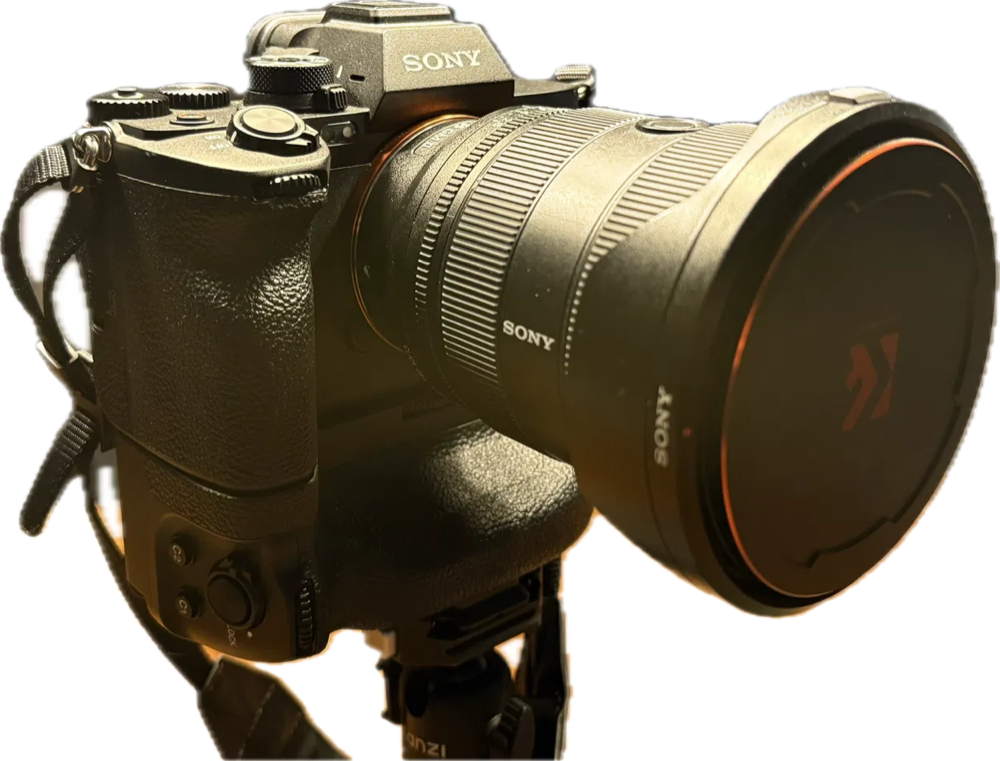
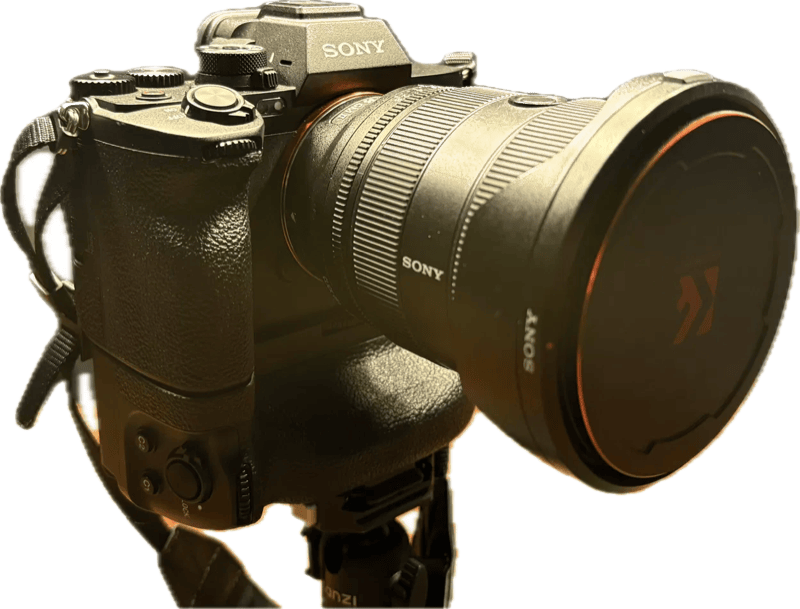
Kamerabild verkleinert

diff --git a/index.html b/index.html
@@ -129,7 +129,7 @@ details.hw[open] .hwa{color:var(--ac);transform:rotate(90deg)}
 <!-- ============ START ============ -->
 <section class="tab on" id="t-start">
 <h1>Sony A7R V</h1>
-<img class="hero" src="kamera.png" alt="Sony A7R V mit Hochformatgriff VG-C4EM" width="1000" height="761">
+<img class="hero" src="kamera.png" alt="Sony A7R V mit Hochformatgriff VG-C4EM" width="800" height="609">
 <button class="home" data-route="rechner"><b>Rechner</b><i>Blende / Zeit / ISO</i></button>
 <button class="home" data-route="filter"><b>Filter</b><i>ND, CPL, BULB-Zeit</i></button>
 <button class="home" data-route="objektive"><b>Objektive</b><i>Daten &amp; Filtergewinde</i></button>
@@ -315,7 +315,7 @@ details.hw[open] .hwa{color:var(--ac);transform:rotate(90deg)}
 Blitz: Godox V860III-S (Sony-Schuh). Synchronzeit ohne HSS: 1/250 s.
 </div>
 
-<p class="small" style="text-align:center;opacity:.6;margin:18px 0 0">Version 6</p>
+<p class="small" style="text-align:center;opacity:.6;margin:18px 0 0">Version 7</p>
 </section>
 <!-- ============ SPICKZETTEL ============ -->
 <section class="tab" id="t-spick">

diff --git a/sw.js b/sw.js
@@ -1,4 +1,4 @@
-const CACHE = 'sony-a7rv-v6';
+const CACHE = 'sony-a7rv-v7';
 const NET_TIMEOUT = 3000;
 const ASSETS = [
   './',
